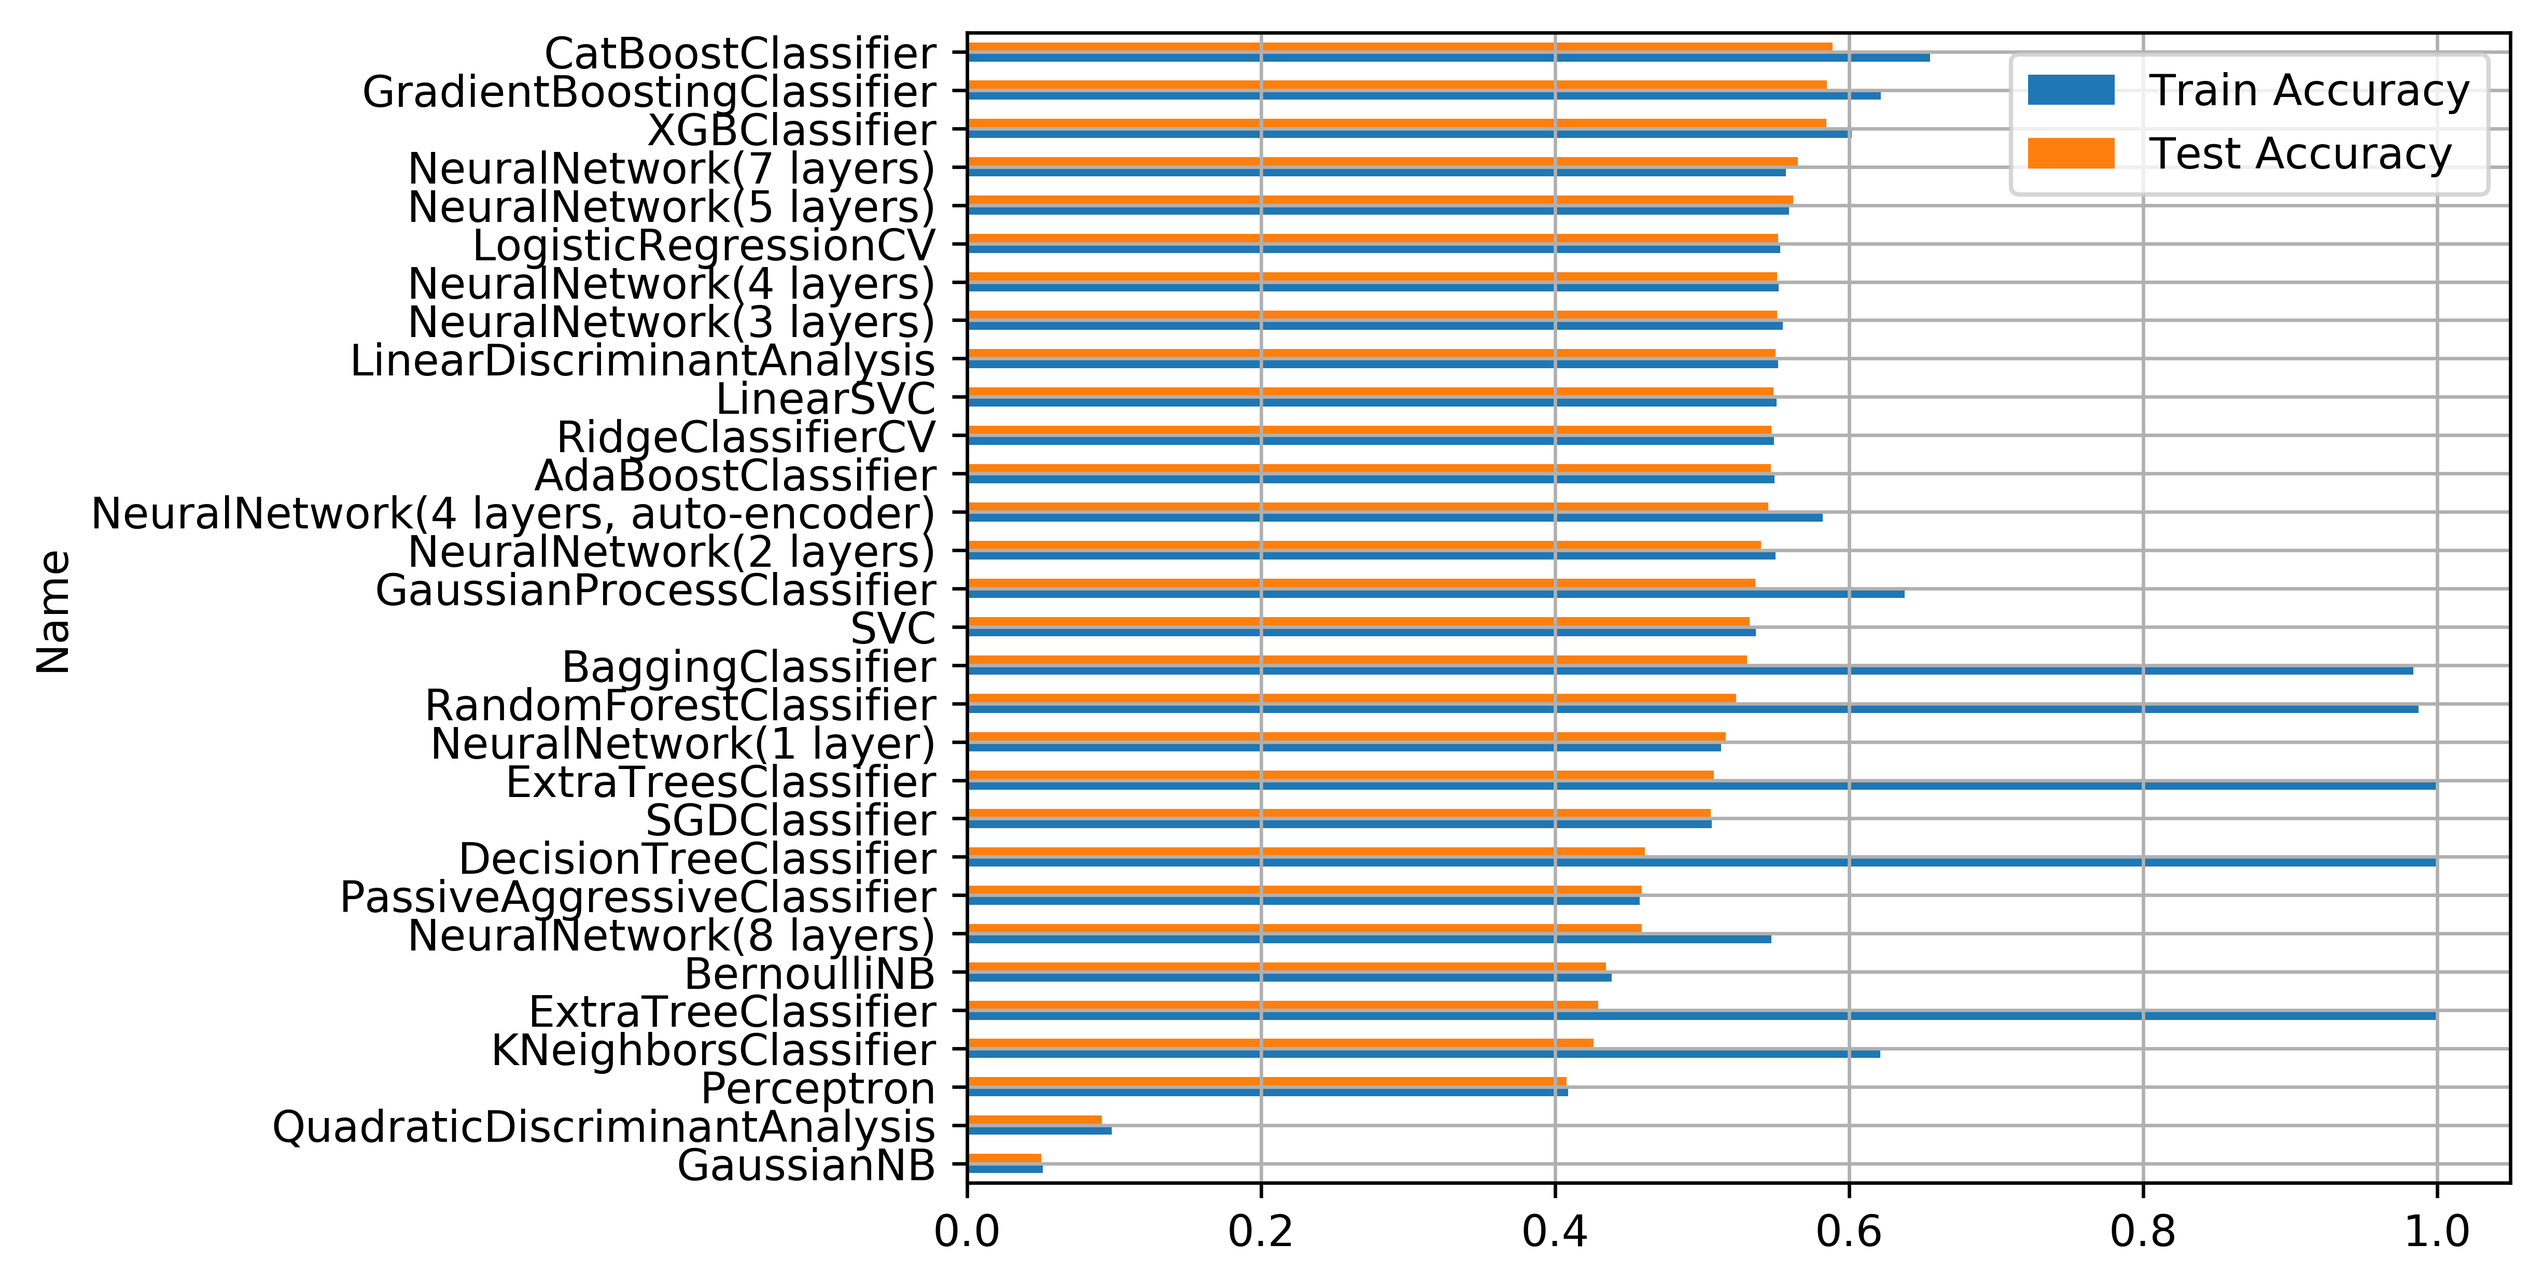
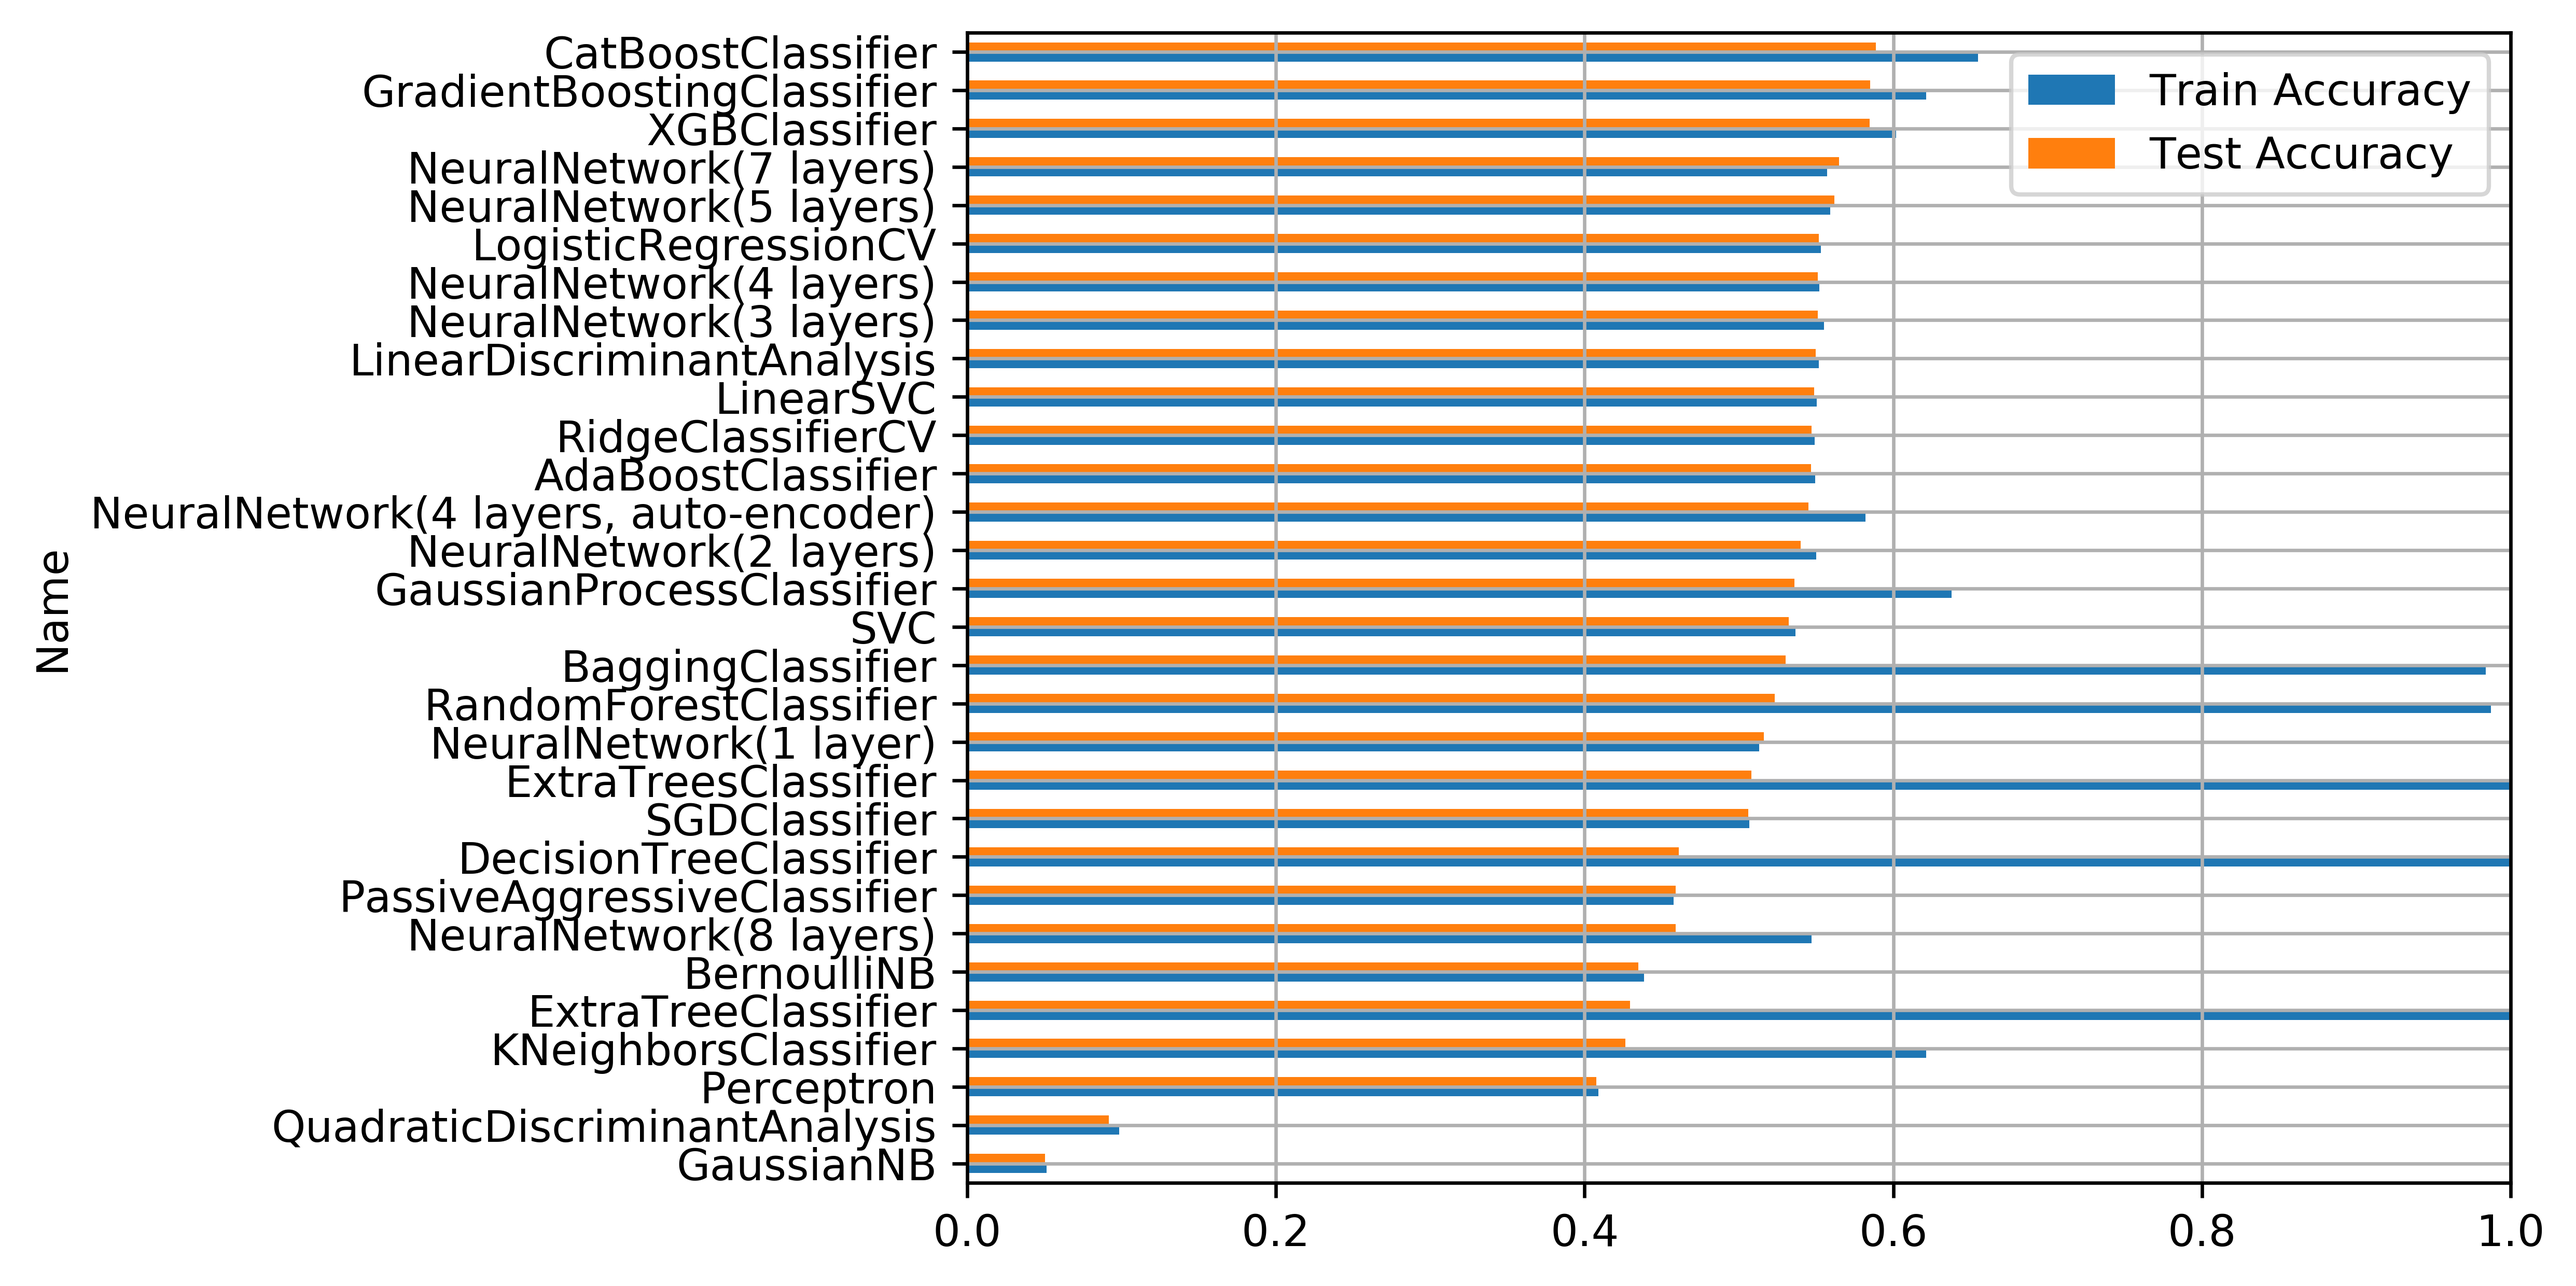
Update figures

diff --git a/visualization/plot.py b/visualization/plot.py
@@ -6,24 +6,24 @@ mla = pd.read_pickle('./comparison.pkl')
 mla = mla.drop(['MLA Time', 'MLA Test Accuracy 3*STD', 'MLA Parameters'], axis=1)
 mla = mla.rename(index=str, columns={'MLA Name': 'Name', 'MLA Test Accuracy Mean': 'Test Accuracy',
                                      'MLA Train Accuracy Mean': 'Train Accuracy'})
-mla = mla.iloc[0:0]
+# mla = mla.iloc[0:0]
 
-mla = mla.append({'Name': 'NeuralNetwork(1 layer)', 'Test Accuracy': 0.516, 'Train Accuracy': 0.513},
-                 ignore_index=True)
-mla = mla.append({'Name': 'NeuralNetwork(2 layers)', 'Test Accuracy': 0.540, 'Train Accuracy': 0.550},
-                 ignore_index=True)
-mla = mla.append({'Name': 'NeuralNetwork(3 layers)', 'Test Accuracy': 0.551, 'Train Accuracy': 0.555},
-                 ignore_index=True)
-mla = mla.append({'Name': 'NeuralNetwork(4 layers)', 'Test Accuracy': 0.551, 'Train Accuracy': 0.552},
-                 ignore_index=True)
-mla = mla.append({'Name': 'NeuralNetwork(5 layers)', 'Test Accuracy': 0.562, 'Train Accuracy': 0.559},
-                 ignore_index=True)
-mla = mla.append({'Name': 'NeuralNetwork(7 layers)', 'Test Accuracy': 0.565, 'Train Accuracy': 0.557},
-                 ignore_index=True)
-mla = mla.append({'Name': 'NeuralNetwork(8 layers)', 'Test Accuracy': 0.459, 'Train Accuracy': 0.547},
-                 ignore_index=True)
-mla = mla.append({'Name': 'NeuralNetwork(4 layers, auto-encoder)', 'Test Accuracy': 0.545, 'Train Accuracy': 0.582},
-                 ignore_index=True)
+# mla = mla.append({'Name': 'NeuralNetwork(1 layer)', 'Test Accuracy': 0.516, 'Train Accuracy': 0.513},
+#                  ignore_index=True)
+# mla = mla.append({'Name': 'NeuralNetwork(2 layers)', 'Test Accuracy': 0.540, 'Train Accuracy': 0.550},
+#                  ignore_index=True)
+# mla = mla.append({'Name': 'NeuralNetwork(3 layers)', 'Test Accuracy': 0.551, 'Train Accuracy': 0.555},
+#                  ignore_index=True)
+# mla = mla.append({'Name': 'NeuralNetwork(4 layers)', 'Test Accuracy': 0.551, 'Train Accuracy': 0.552},
+#                  ignore_index=True)
+# mla = mla.append({'Name': 'NeuralNetwork(5 layers)', 'Test Accuracy': 0.562, 'Train Accuracy': 0.559},
+#                  ignore_index=True)
+# mla = mla.append({'Name': 'NeuralNetwork(7 layers)', 'Test Accuracy': 0.565, 'Train Accuracy': 0.557},
+#                  ignore_index=True)
+# mla = mla.append({'Name': 'NeuralNetwork(8 layers)', 'Test Accuracy': 0.459, 'Train Accuracy': 0.547},
+#                  ignore_index=True)
+# mla = mla.append({'Name': 'NeuralNetwork(4 layers, auto-encoder)', 'Test Accuracy': 0.545, 'Train Accuracy': 0.582},
+#                  ignore_index=True)
 mla = mla.sort_values(by=['Test Accuracy'])
 print(mla)
 
@@ -31,7 +31,7 @@ ax = mla.plot.barh(x='Name', rot=0)
 # plt.legend(loc='top left', bbox_to_anchor=(1.0, 0.5))
 ax.set_xlim(0, 1)
 plt.grid(zorder=0)
-plt.savefig('./neural_network.png', format='png', dpi=600, bbox_inches='tight')
+plt.savefig('./machine_learning_algorithm.png', format='png', dpi=600, bbox_inches='tight')
 # plt.show()
 # print(mla.dtypes)
 
